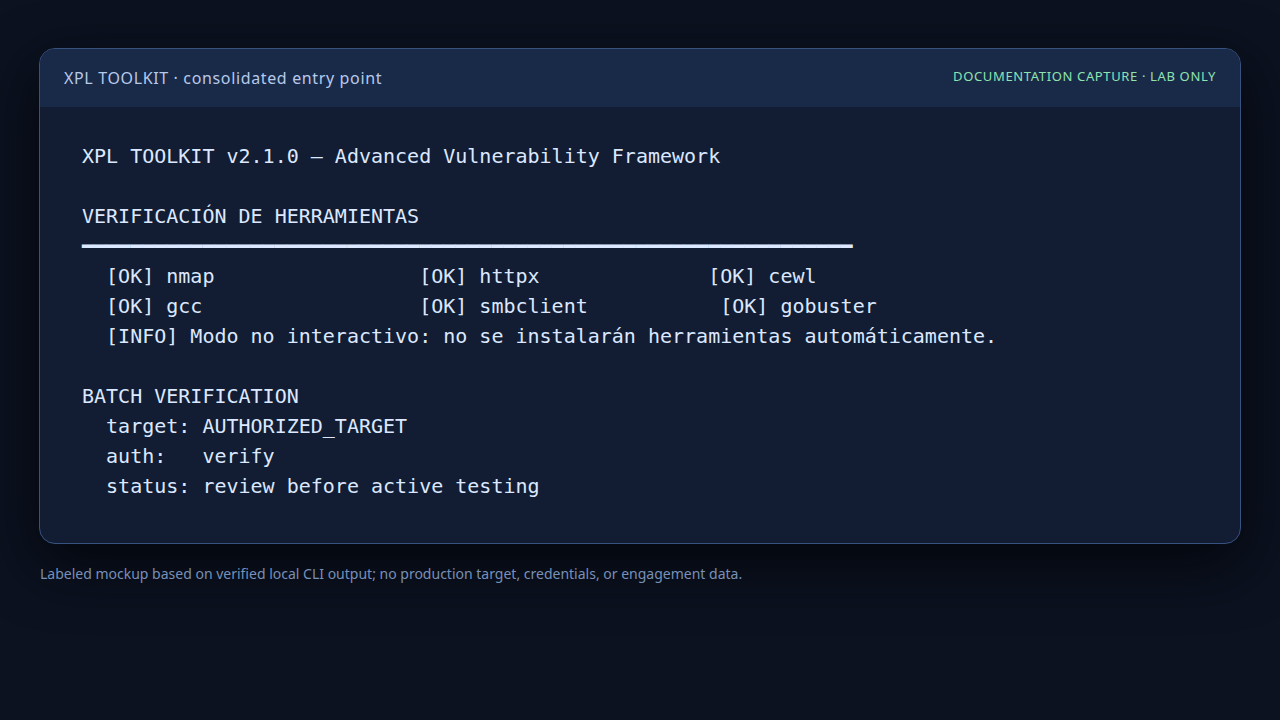
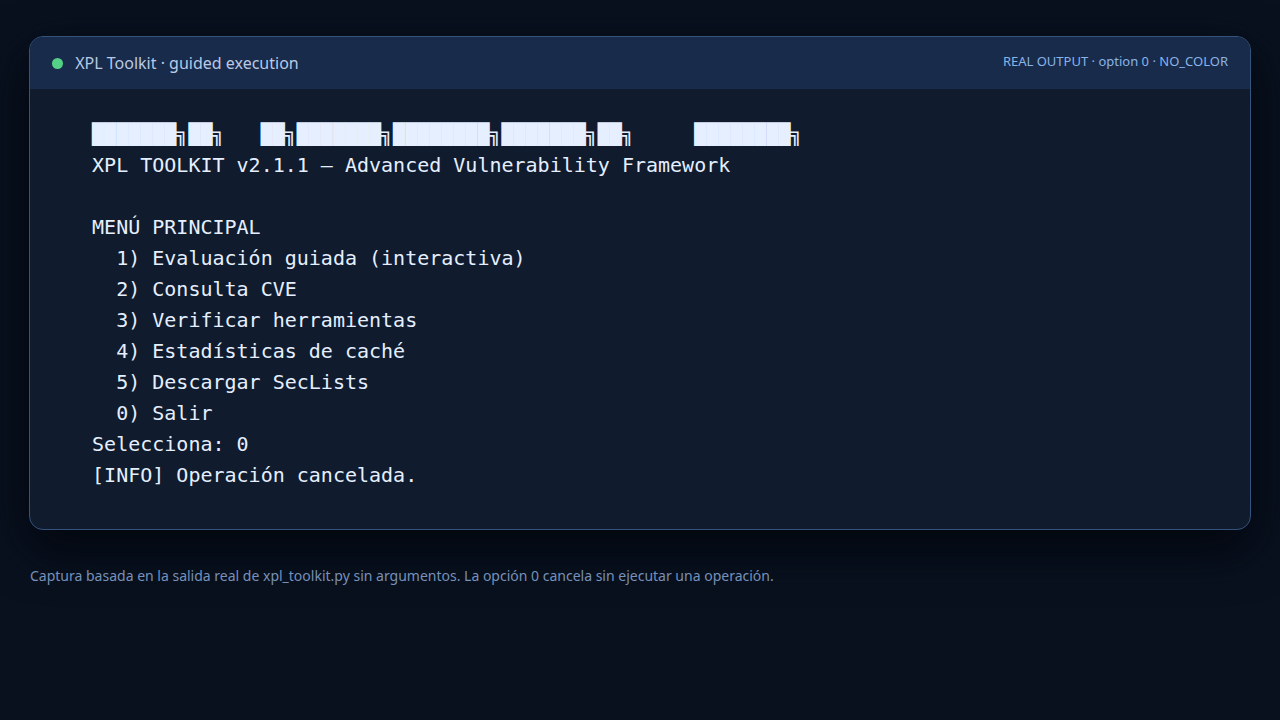
Add guided execution menu

diff --git a/xpl_toolkit.py b/xpl_toolkit.py
@@ -53,7 +53,7 @@ from html import escape as html_escape
 #  CONFIGURACIÓN GLOBAL
 # =============================================================================
 
-VERSION = "2.1.0"
+VERSION = "2.1.1"
 # La clave se obtiene del entorno; nunca debe almacenarse en el repositorio.
 NVD_API_KEY = os.getenv("NVD_API_KEY", "")
 SESSIONS_DIR = os.path.expanduser("/home/ubuntu/sessions")
@@ -1932,32 +1932,97 @@ def interactive_mode(args):
 #  CLI PRINCIPAL
 # =============================================================================
 
+def guided_menu(args):
+    """Presenta un acceso guiado a las operaciones existentes del toolkit."""
+    banner()
+    options = {
+        "1": "Evaluación guiada (interactiva)",
+        "2": "Consulta CVE",
+        "3": "Verificar herramientas",
+        "4": "Estadísticas de caché",
+        "5": "Descargar SecLists",
+        "0": "Salir",
+    }
+    while True:
+        try:
+            choice = menu("MENÚ PRINCIPAL", options)
+        except (EOFError, KeyboardInterrupt):
+            print()
+            info("Entrada finalizada. No se ejecutó ninguna operación.")
+            return
+
+        if choice in ("0", "q", "quit", "salir"):
+            info("Operación cancelada.")
+            return
+        if choice == "1":
+            interactive_mode(args)
+            return
+        if choice == "2":
+            try:
+                query = input(f"  {cc('Consulta CVE:', Colors.BOLD)} ").strip()
+            except (EOFError, KeyboardInterrupt):
+                print()
+                info("Consulta CVE cancelada.")
+                continue
+            if not query:
+                warn("La consulta no puede estar vacía.")
+                continue
+            try:
+                severity = input("  Severidad mínima [LOW/MEDIUM/HIGH/CRITICAL, vacío=ninguna]: ").strip().upper()
+            except (EOFError, KeyboardInterrupt):
+                print()
+                info("Consulta CVE cancelada.")
+                continue
+            if severity and severity not in SEVERITY_ORDER:
+                warn("Severidad no válida.")
+                continue
+            section("CVE Lookup — Modo Guiado")
+            results = fetch_cves_cached(query, limit=50, min_severity=severity or None)
+            print_cve_table(results)
+            return
+        if choice == "3":
+            check_and_install_tools()
+            return
+        if choice == "4":
+            cache = CVECache()
+            stats = cache.stats()
+            cache.close()
+            section("Estadísticas de Caché")
+            print(f"  Entradas totales: {stats['total_entries']}")
+            print(f"  Queries únicas:   {stats['unique_queries']}")
+            return
+        if choice == "5":
+            download_sec_lists()
+            return
+        warn("Opción no válida. Selecciona un número del menú.")
+
+
 def main():
     parser = argparse.ArgumentParser(
         description=f"XPL Toolkit v{VERSION} — Advanced Vulnerability Framework",
         formatter_class=argparse.RawDescriptionHelpFormatter,
         epilog=f"""
 Ejemplos interactivos:
-  python3 xpl_toolkit_v2.py 192.168.1.10 smb
-  python3 xpl_toolkit_v2.py example.com web-recon
-  python3 xpl_toolkit_v2.py
+	  python3 xpl_toolkit.py 192.168.1.10 smb
+	  python3 xpl_toolkit.py example.com web-recon
+	  python3 xpl_toolkit.py
 
 Solo CVE Lookup (con caché y API Key):
-  python3 xpl_toolkit_v2.py --cve-only "apache httpd 2.4" --min-severity HIGH
-  python3 xpl_toolkit_v2.py --cve-only "log4j" --output json --out cves.json
+	  python3 xpl_toolkit.py --cve-only "apache httpd 2.4" --min-severity HIGH
+	  python3 xpl_toolkit.py --cve-only "log4j" --output json --out cves.json
 
 Modo batch (sin interacción):
-  python3 xpl_toolkit_v2.py --batch 192.168.1.10 smb --batch-auth verify
-  python3 xpl_toolkit_v2.py --batch example.com web-recon --batch-auth full
+	  python3 xpl_toolkit.py --batch 192.168.1.10 smb --batch-auth verify
+	  python3 xpl_toolkit.py --batch example.com web-recon --batch-auth full
 
 Verificar herramientas:
-  python3 xpl_toolkit_v2.py --check-tools
+	  python3 xpl_toolkit.py --check-tools
 
 Descargar SecLists:
-  python3 xpl_toolkit_v2.py --download-seclists
+	  python3 xpl_toolkit.py --download-seclists
 
 Caché:
-  python3 xpl_toolkit_v2.py --cache-stats
+	  python3 xpl_toolkit.py --cache-stats
         """
     )
     parser.add_argument("target", nargs="?", help="Objetivo (IP o dominio)")
@@ -2020,9 +2085,7 @@ Caché:
     elif args.target:
         interactive_mode(args)
     else:
-        args.target = None
-        args.vulnerability = None
-        interactive_mode(args)
+        guided_menu(args)
 
 
 if __name__ == "__main__":

diff --git a/tests/test_toolkits.py b/tests/test_toolkits.py
@@ -103,5 +103,24 @@ class WordlistRegressionTests(unittest.TestCase):
             self.assertEqual(output.read_text(encoding="utf-8"), "alpha\nbeta\n")
 
 
+class GuidedMenuTests(unittest.TestCase):
+    def test_menu_routes_to_existing_interactive_flow(self):
+        args = type("Args", (), {})()
+        with patch.object(v1, "menu", return_value="1"), patch.object(v1, "interactive_mode") as flow:
+            v1.guided_menu(args)
+        flow.assert_called_once_with(args)
+
+    def test_menu_accepts_invalid_choice_then_cancel(self):
+        args = type("Args", (), {})()
+        with patch.object(v1, "menu", side_effect=["x", "0"]):
+            v1.guided_menu(args)
+
+    def test_menu_handles_eof_without_running_an_operation(self):
+        args = type("Args", (), {})()
+        with patch.object(v1, "menu", side_effect=EOFError), patch.object(v1, "interactive_mode") as flow:
+            v1.guided_menu(args)
+        flow.assert_not_called()
+
+
 if __name__ == "__main__":
     unittest.main()

diff --git a/README.md b/README.md
@@ -49,6 +49,19 @@ El modo de verificación de herramientas puede modificar el sistema mediante `ap
 python3 xpl_toolkit.py --check-tools < /dev/null
 ```
 
+Si ejecutas `python3 xpl_toolkit.py` sin argumentos, aparece un menú guiado conciso:
+
+| Opción | Acción |
+| --- | --- |
+| `1` | Evaluación guiada interactiva; reutiliza el flujo existente de objetivo, servicio y autorización. |
+| `2` | Consulta CVE con consulta y severidad mínima opcional. |
+| `3` | Verificación de herramientas; la instalación requiere confirmación. |
+| `4` | Estadísticas de caché local. |
+| `5` | Descarga de SecLists. |
+| `0` | Cancelar y salir sin ejecutar una operación. |
+
+El menú sólo reacomoda el acceso a funciones ya existentes. Los argumentos CLI directos, el modo batch y los formatos de salida se conservan.
+
 ## Uso autorizado
 
 Para iniciar el flujo interactivo:

diff --git a/CHANGELOG.md b/CHANGELOG.md
@@ -4,6 +4,13 @@
 
 - Preparación de documentación, tutorial, feed y materiales de promoción para el punto de entrada consolidado.
 
+## [2.1.1] — 2026-09-09
+
+- Añadido un menú principal interactivo y conciso para ejecutar las operaciones existentes mediante opciones numeradas.
+- Añadidas rutas seguras de cancelación, validación de opción y manejo de EOF.
+- Corregidos los ejemplos internos para mostrar `xpl_toolkit.py` como punto de entrada principal.
+- Añadidas pruebas smoke para selección válida, selección inválida, cancelación y EOF.
+
 ## [2.1.0] — 2026-09-09
 
 - Añadido flujo batch con modos `verify`, `full` y `cancel`.
